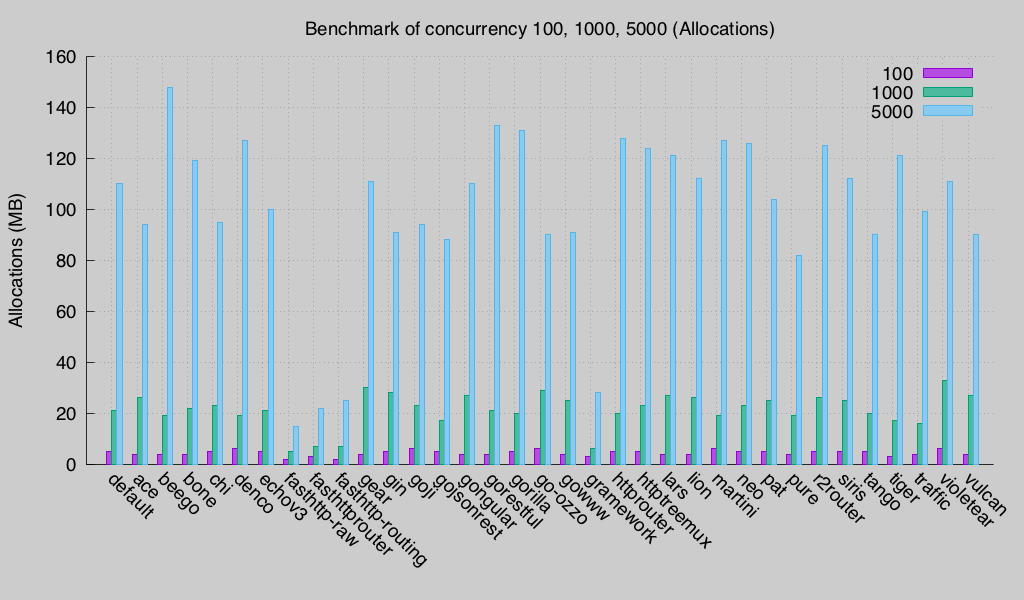
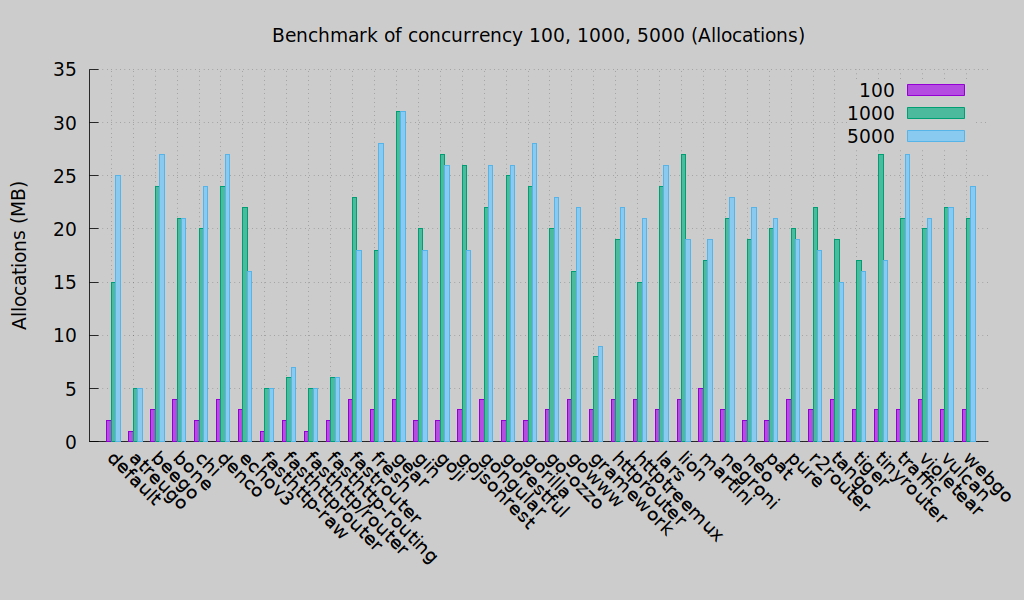
Added fasthttp/router and atreugo, and update benchmarks

Changed region(s): [[0.0, 0.09, 1.0, 0.96], [0.25, 0.03, 0.7812, 0.09]]

diff --git a/server.go b/server.go
@@ -9,23 +9,24 @@ import (
 	"strconv"
 	"time"
 
-	"github.com/bnkamalesh/webgo"
-
 	"github.com/ant0ine/go-json-rest/rest"
 	"github.com/astaxie/beego"
 	"github.com/astaxie/beego/context"
 	"github.com/bmizerany/pat"
+	"github.com/bnkamalesh/webgo"
 	"github.com/buaazp/fasthttprouter"
 	"github.com/dimfeld/httptreemux"
 	"github.com/dinever/golf"
-	"github.com/emicklei/go-restful"
+	restful "github.com/emicklei/go-restful"
+	fasthttpSlashRouter "github.com/fasthttp/router"
 	"github.com/gin-gonic/gin"
+	"github.com/savsgio/atreugo"
 
 	// "github.com/go-siris/siris"
 	// siriscontext "github.com/go-siris/siris/context"
 	"github.com/nbari/violetear"
 	"github.com/urfave/negroni"
-	"gopkg.in/macaron.v1"
+	macaron "gopkg.in/macaron.v1"
 
 	// "github.com/go-gas/gas" // NOTE(@kirilldanshin): gas is 404 now, comment out
 	bxog "github.com/claygod/Bxog"
@@ -111,6 +112,8 @@ func main() {
 		startDefaultMux()
 	// case "ace":
 	// 	startAce()
+	case "atreugo":
+		startAtreugo()
 	case "baa":
 		startBaa()
 	case "beego":
@@ -129,6 +132,8 @@ func main() {
 		startFasthttp()
 	case "fasthttprouter":
 		startFastHTTPRouter()
+	case "fasthttp/router":
+		startFastHTTPSlashRouter()
 	case "fasthttp-routing":
 		startFastHTTPRouting()
 	case "fastrouter":
@@ -216,7 +221,7 @@ func startDefaultMux() {
 	http.ListenAndServe(":"+strconv.Itoa(port), nil)
 }
 
-//ace
+// ace
 // func aceHandler(c *ace.C) {
 // 	if sleepTime > 0 {
 // 		time.Sleep(sleepTimeDuration)
@@ -230,6 +235,21 @@ func startDefaultMux() {
 // 	mux.GET("/hello", aceHandler)
 // 	mux.Run(":" + strconv.Itoa(port))
 // }
+
+// atreugo
+func atreugoHandler(ctx *atreugo.RequestCtx) error {
+	if sleepTime > 0 {
+		time.Sleep(sleepTimeDuration)
+	} else {
+		runtime.Gosched()
+	}
+	return ctx.TextResponseBytes(message)
+}
+func startAtreugo() {
+	mux := atreugo.New(&atreugo.Config{Host: "127.0.0.1", Port: port})
+	mux.Path("GET", "/hello", atreugoHandler)
+	mux.ListenAndServe()
+}
 
 // baa
 func baaHandler(ctx *baa.Context) {
@@ -362,6 +382,13 @@ func fastHTTPHandler(ctx *fasthttp.RequestCtx) {
 }
 func startFastHTTPRouter() {
 	mux := fasthttprouter.New()
+	mux.GET("/hello", fastHTTPHandler)
+	fasthttp.ListenAndServe(":"+strconv.Itoa(port), mux.Handler)
+}
+
+//fasthttp Router
+func startFastHTTPSlashRouter() {
+	mux := fasthttpSlashRouter.New()
 	mux.GET("/hello", fastHTTPHandler)
 	fasthttp.ListenAndServe(":"+strconv.Itoa(port), mux.Handler)
 }
@@ -856,9 +883,9 @@ func startVulcan() {
 func getWebgoRoutes() []*webgo.Route {
 	return []*webgo.Route{
 		&webgo.Route{
-			Name:     "helloworld",
+			Name:     "hello",
 			Method:   http.MethodGet,
-			Pattern:  "/helloworld",
+			Pattern:  "/hello",
 			Handlers: []http.HandlerFunc{helloHandler},
 		},
 	}

diff --git a/README.md b/README.md
@@ -1,14 +1,14 @@
 # go-web-framework-benchmark
 This benchmark suite aims to compare the performance of Go web frameworks. It is inspired by [Go HTTP Router Benchmark](https://github.com/julienschmidt/go-http-routing-benchmark) but this benchmark suite is different with that. Go HTTP Router Benchmark suit aims to compare the performance of **routers** but this Benchmark suit aims to compare whole HTTP request processing.
 
-**Last Test Updated:** 2017-09-12
+**Last Test Updated:** 2019-01-03
 
 *test environment*
 
-* CPU:      Intel(R) Xeon(R) CPU E5-2630 v3 @ 2.40GHz, 32 cores
-* Memory:   32G
-* Go:       1.9.0
-* OS:       CentOS 7 / 3.10.0-229.el7.x86_64
+* CPU:      Intel(R) Core(TM) i5-5200U CPU @ 2.20GHz
+* Memory:   16G
+* Go:       1.11.4
+* OS:       Kubuntu 18.10 / 4.18.0-13-generic
 
 (doesn't contain test results of neo because one error)
 
@@ -58,6 +58,8 @@ This benchmark suite aims to compare the performance of Go web frameworks. It is
 * [negroni](https://github.com/urfave/negroni)
 * [tinyrouter](https://github.com/go101/tinyrouter)
 * [webgo](https://github.com/bnkamalesh/webgo)
+* [fasthttp/router](https://github.com/fasthttp/router)
+* [atreugo](https://github.com/savsgio/atreugo)
 
 
 The below web frameworks will be removed from this test because of their poor performance:
